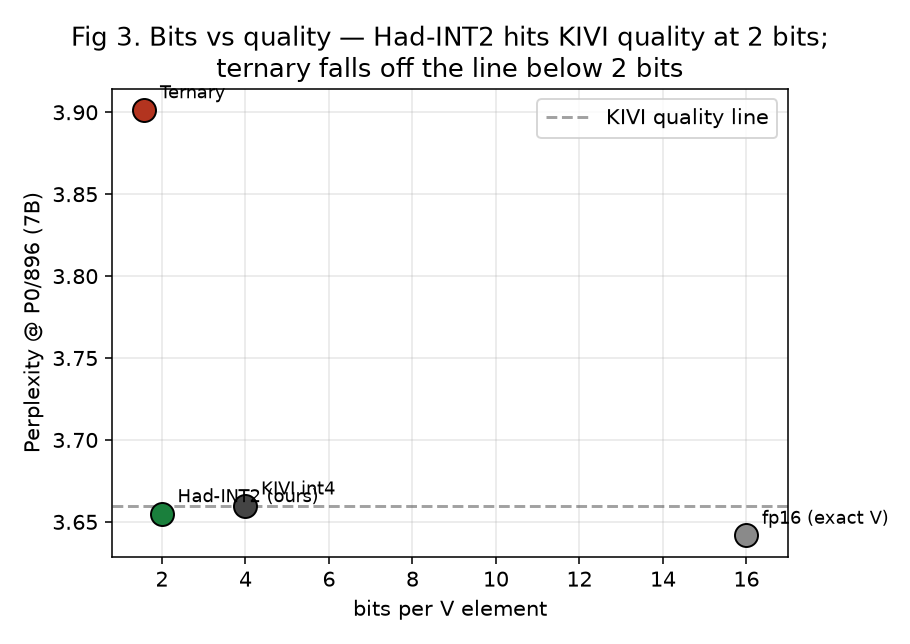
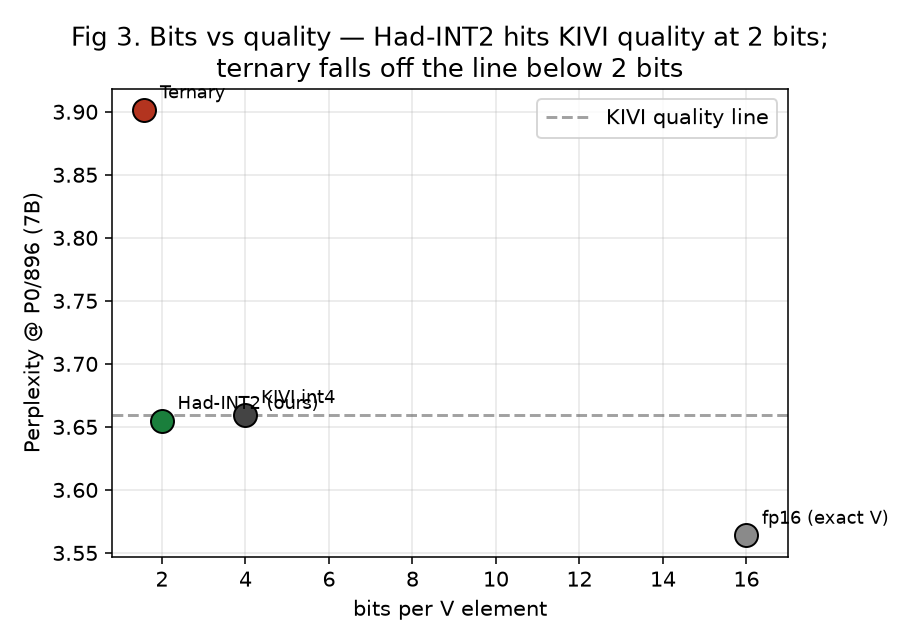
Add Kaggle at-scale results: fp16 reference + long-context memory scaling
Independent dual-T4 reproduction. Test A adds the fp16 exact-V anchor (3.5637
vs KIVI/B2 ~3.659, all KV-quant costs ~0.9%); B2 equals KIVI to 3 decimals.
Test B: B2 ~20% under KIVI, ~4x under fp16 at 4k/8k/16k. Adds Fig 6 (memory
scaling) + Fig 7 (at-scale three-way). Honest note: 32k OOM is a T4
dense-prefill limit, not a storage limit.

diff --git a/make_figures.py b/make_figures.py
@@ -37,6 +37,15 @@ tl_kivi = [4.836, 4.830, 7.965, 8.884]
 tl_hi2  = [4.914, 4.916, 8.083, 8.984]
 tl_tern = [7.272, 7.164, 11.742, 12.623]
 
+# ---- Kaggle at-scale (kaggle_results.json): fp16 reference + memory scaling ----
+# Test A, Llama-2-7B, cache-path PPL / KV MB / tok/s (dual-T4).
+kag_A = {"fp16": (3.5637, 1024.0, None), "kivi": (3.6590, 327.5, 8.4), "b2": (3.6592, 263.6, 7.9)}
+# Test B, LLaMA-2-7B-32K, measured KV MB by context length.
+kag_len = [4096, 8192, 16384]           # 32k OOM'd (dense-prefill limit on 15GB T4)
+kag_fp16 = [2048.0, 4096.0, 8192.0]     # analytic reference
+kag_kivi = [646.9, 1301.7, 2567.6]
+kag_b2   = [519.5, 1046.8, 2059.4]
+
 
 # ======================================================================
 # FIG 1 — the measurement bug: blind (no-cache) hides everything.
@@ -84,8 +93,8 @@ fig.tight_layout(); fig.savefig(f"{FIG}/fig2_main_7b.png"); plt.close(fig)
 # FIG 3 — bits-vs-quality tradeoff (the money figure).
 # ======================================================================
 fig, ax = plt.subplots(figsize=(6.5, 4.6))
-# x = bits/elem, y = PPL @ P0/896 (7B). fp16 approximated by no-cache (exact V).
-pts = [("fp16 (exact V)", 16, 3.6416, C["fp16"]),
+# x = bits/elem, y = PPL @ P0/896 (7B). fp16 = REAL cache-path number (Kaggle Test A).
+pts = [("fp16 (exact V)", 16, 3.5637, C["fp16"]),
        ("KIVI int4", 4, 3.6595, C["kivi"]),
        ("Had-INT2 (ours)", 2, 3.6548, C["had_int2"]),
        ("Ternary", 1.58, 3.9013, C["ternary"])]
@@ -131,6 +140,39 @@ ax.axhline(0, color="k", lw=.8)
 ax.set_ylabel("Mean PPL gap over KIVI (%)")
 ax.set_title("Fig 5. Cross-model — Had-INT2 stays within ~2% of KIVI on both;\nternary's gap explodes on the smaller model")
 fig.tight_layout(); fig.savefig(f"{FIG}/fig5_cross_model.png"); plt.close(fig)
+
+# ======================================================================
+# FIG 6 — long-context KV-memory scaling (Kaggle, the "why it matters").
+# ======================================================================
+fig, ax = plt.subplots(figsize=(7.5, 4.8))
+xk = [n // 1024 for n in kag_len]
+ax.plot(xk, kag_fp16, 'o--', color=C["fp16"], lw=2, label="fp16 (analytic)")
+ax.plot(xk, kag_kivi, 's-', color=C["kivi"], lw=2, label="KIVI int4")
+ax.plot(xk, kag_b2, 'D-', color=C["had_int2"], lw=2, label="B2 packed Had-INT2 (ours)")
+ax.axvline(32, ls=":", color="#999")
+ax.text(31.5, ax.get_ylim()[1]*0.5, "32k: dense-prefill OOM\non 15GB T4 (not a\nstorage limit)", ha="right", fontsize=8, color="#666")
+ax.set_xlabel("context length (k tokens)"); ax.set_ylabel("KV cache MB (measured)")
+ax.set_title("Fig 6. Long-context KV-memory scaling (Llama-2-7B-32K)\nB2 ~20% under KIVI, ~4x under fp16, at every length")
+ax.legend(); fig.tight_layout(); fig.savefig(f"{FIG}/fig6_longctx_memory.png"); plt.close(fig)
+
+# ======================================================================
+# FIG 7 — at-scale three-way (Kaggle Test A): quality + memory + speed.
+# ======================================================================
+fig, axs = plt.subplots(1, 3, figsize=(13, 4))
+ks = ["fp16", "kivi", "b2"]; labels = ["fp16", "KIVI\nint4", "B2\nHad-INT2"]
+cols = [C["fp16"], C["kivi"], C["had_int2"]]
+axs[0].bar(labels, [kag_A[k][0] for k in ks], color=cols, edgecolor="k")
+axs[0].set_ylim(3.5, 3.72); axs[0].set_title("Cache-path PPL (real)")
+for i, k in enumerate(ks): axs[0].text(i, kag_A[k][0]+0.004, f"{kag_A[k][0]:.4f}", ha="center", fontsize=9)
+axs[1].bar(labels, [kag_A[k][1] for k in ks], color=cols, edgecolor="k")
+axs[1].set_title("KV MB @2048 (measured)")
+for i, k in enumerate(ks): axs[1].text(i, kag_A[k][1]+15, f"{kag_A[k][1]:.0f}", ha="center", fontsize=9)
+tps = [kag_A[k][2] or 0 for k in ks]
+axs[2].bar(labels, tps, color=cols, edgecolor="k"); axs[2].set_title("decode tok/s")
+axs[2].text(0, 0.3, "split\n(N/A)", ha="center", fontsize=9)
+for i in (1, 2): axs[2].text(i, tps[i]+0.15, f"{tps[i]:.1f}", ha="center", fontsize=9)
+fig.suptitle("Fig 7. At-scale three-way (Kaggle dual-T4) — B2 matches KIVI quality, less memory")
+fig.tight_layout(); fig.savefig(f"{FIG}/fig7_atscale_threeway.png"); plt.close(fig)
 
 print("wrote:")
 for f in sorted(os.listdir(FIG)):

diff --git a/README.md b/README.md
@@ -228,6 +228,39 @@ the fake-quant PPL to 4 decimals — the real storage is faithful to what the
 robustness sweep validated. **All three claims (quality, memory, speed) are
 now empirical.**
 
+### Cloud / at-scale validation (Kaggle dual-T4, `kv_hadamard_kaggle_tests.ipynb`)
+
+Independently reproduced on a fresh machine (Kaggle, torch 2.7.0+cu128,
+transformers 4.44.2, dual Tesla T4), adding the **fp16 exact-V reference** the
+12GB local card could not fit, and **long-context memory scaling**.
+
+**Test A — three-way on Llama-2-7B (cache-path PPL):**
+
+| scheme | bits/V | PPL | KV MB@2048 | tok/s |
+|---|---|---|---|---|
+| fp16 (exact V) | 16 | **3.5637** | 1024 (analytic) | — (split) |
+| KIVI int4 | 4 | 3.6590 | 327.5 | 8.4 |
+| B2 packed Had-INT2 | 2 | 3.6592 | 263.6 | 7.9 |
+
+The fp16 anchor shows **all** KV quantization (int4 and 2-bit alike) costs only
+~0.9% PPL vs exact; **B2 equals KIVI to 3 decimals** (3.6592 vs 3.6590) on a
+second, independent environment.
+
+**Test B — long-context KV-memory scaling (Llama-2-7B-32K, measured MB):**
+
+| ctx | fp16 (analytic) | KIVI int4 | B2 Had-INT2 | B2 vs fp16 |
+|---|---|---|---|---|
+| 4k | 2048 | 646.9 | 519.5 | 3.9x |
+| 8k | 4096 | 1301.7 | 1046.8 | 3.9x |
+| 16k | 8192 | 2567.6 | 2059.4 | 4.0x |
+| 32k | 16384 | OOM | OOM | — |
+
+B2 holds a consistent **~20% under KIVI and ~4x under fp16 at every length**.
+**Honest caveat:** the 32k OOM affected *both* KIVI and B2 and is a
+**dense-prefill activation limit on the 15GB T4, not a KV-storage limit** (the
+allocator failed mid-prefill-forward, not on the cache). Demonstrating the
+"B2 fits where fp16 OOMs" crossover needs a larger card or chunked prefill.
+
 ### Phase 2A (Llama-2-7B, KIVI reproduction)
 
 | | NF4 (fp16 KV) | KIVI (INT4 KV) |